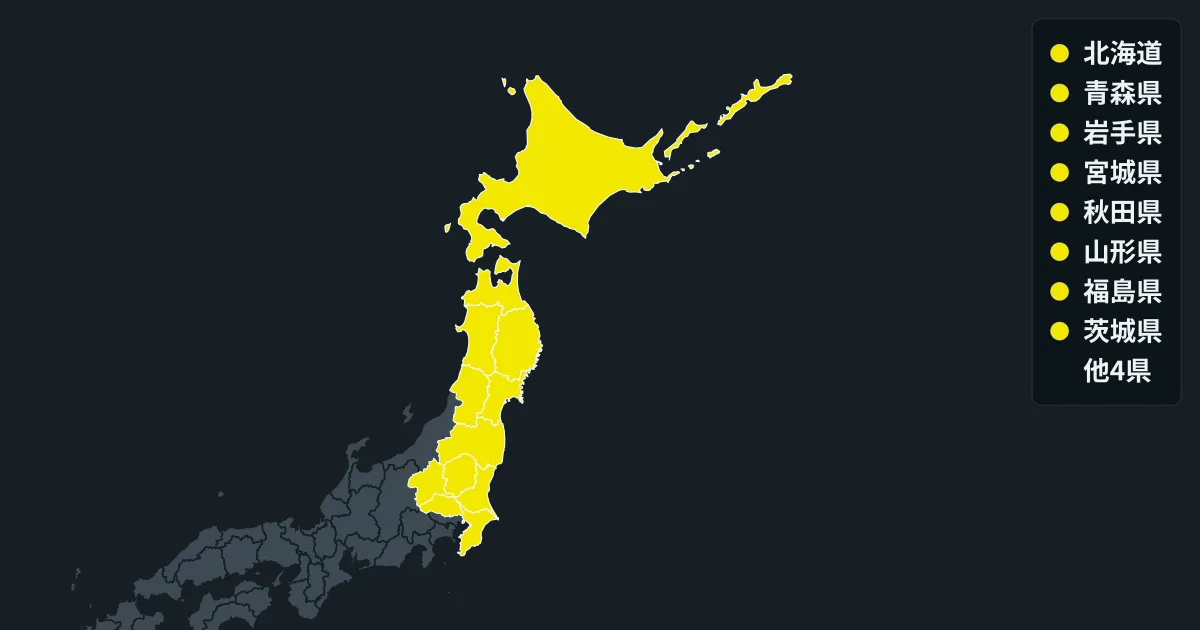
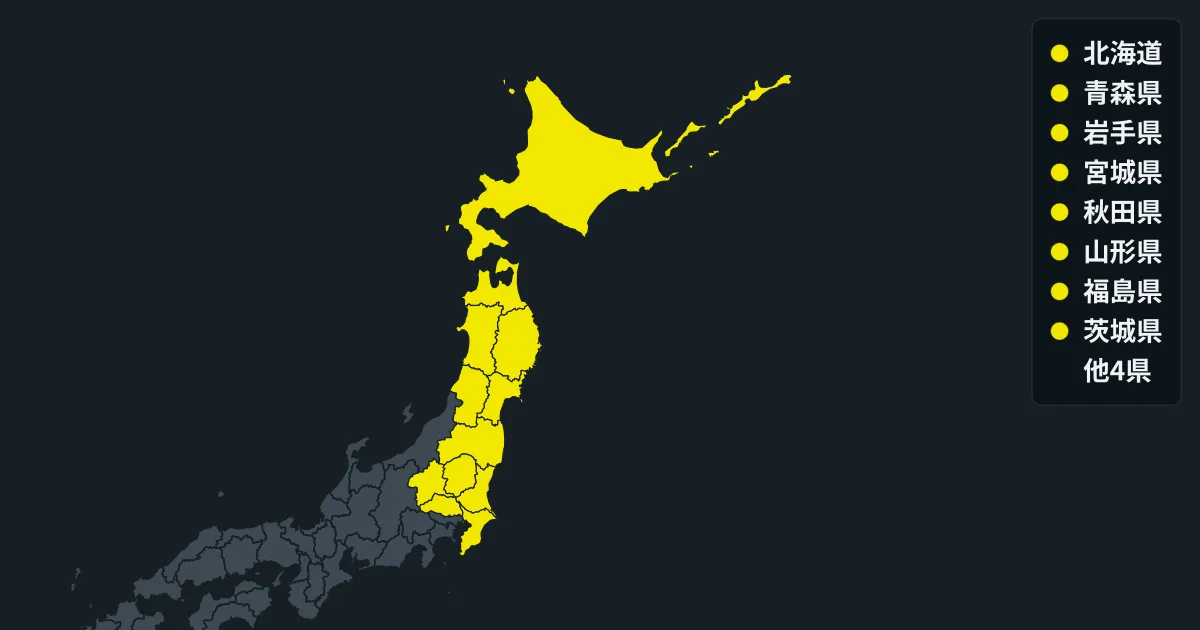
強調県のアウトラインを塗りとのコントラストで自動決定する
白縁固定だと 🟡(黄)・⚪(白)の縁が塗りと同化して県境が読めなかった。
WCAG の相対輝度で明るい塗り(黄・橙・白)は暗縁、暗い塗り(赤・紫・黒)は
明縁にする。明縁と暗縁の県が隣接する共有辺は、両方の塗りに対して
コントラストが出る暗縁が勝つよう、明縁→暗縁の順で描く。
凡例の色丸の輪郭も同じ規則に揃えた。

diff --git a/src/routes/images/alert.webp/+server.ts b/src/routes/images/alert.webp/+server.ts
@@ -33,7 +33,25 @@ const PALETTE: Record<string, string> = {
 const BG_COLOR = "#161f24";
 const LAND_FILL = "#3d4a53";
 const LAND_STROKE = "#171f24";
-const HIGHLIGHT_STROKE = "#f2f6f8";
+
+// 強調県のアウトラインは塗りとのコントラストで決める。
+// 白縁固定だと 🟡(黄)や ⚪(白)の縁が塗りと同化するため
+const EDGE_LIGHT = "#f2f6f8";
+const EDGE_DARK = "#161f24";
+const EDGE_LUMINANCE_THRESHOLD = 0.4;
+
+// WCAG の相対輝度。明るい塗りかどうかの判定に使う
+function luminance(hex: string): number {
+  const linear = (i: number) => {
+    const c = parseInt(hex.slice(i, i + 2), 16) / 255;
+    return c <= 0.03928 ? c / 12.92 : ((c + 0.055) / 1.055) ** 2.4;
+  };
+  return 0.2126 * linear(1) + 0.7152 * linear(3) + 0.0722 * linear(5);
+}
+
+function edgeFor(fill: string): string {
+  return luminance(fill) > EDGE_LUMINANCE_THRESHOLD ? EDGE_DARK : EDGE_LIGHT;
+}
 
 const DEFAULT_WIDTH = 1200; // OGP 推奨サイズ
 const DEFAULT_HEIGHT = 630;
@@ -144,25 +162,29 @@ function buildMap(
   const colorOf = new Map(prefs.map((p) => [p.code, PALETTE[p.color]]));
   const baseFill: string[] = [];
   const baseBoundary: string[] = [];
-  const active: string[] = [];
+  const activeLight: string[] = [];
+  const activeDark: string[] = [];
   for (const [code, d] of Object.entries(paths)) {
     const fill = colorOf.get(Number(code));
     if (fill) {
-      active.push(
-        `<path d="${d}" fill="${fill}" stroke="${HIGHLIGHT_STROKE}" stroke-width="${highlightStroke}"/>`,
-      );
+      const edge = edgeFor(fill);
+      const path = `<path d="${d}" fill="${fill}" stroke="${edge}" stroke-width="${highlightStroke}"/>`;
+      // 明るい塗り(暗縁)を後に描く。明縁と暗縁の県が隣接したとき、
+      // 共有辺には両方の塗りに対してコントラストのある暗縁を残すため
+      (edge === EDGE_DARK ? activeDark : activeLight).push(path);
     } else {
       baseFill.push(`<path d="${d}" fill="${LAND_FILL}"/>`);
       baseBoundary.push(`<path d="${d}" fill="none" stroke="${LAND_STROKE}" stroke-width="${boundaryStroke}"/>`);
     }
   }
 
-  // 描画順: 塗り → 県境 → 強調県(強調県の明色アウトラインを最前面に保つ)
+  // 描画順: 塗り → 県境 → 強調県(明縁 → 暗縁)
   return (
     `<g transform="translate(${tx} ${ty}) scale(${scale})" fill-rule="evenodd" stroke-linejoin="round">` +
     baseFill.join("") +
     baseBoundary.join("") +
-    active.join("") +
+    activeLight.join("") +
+    activeDark.join("") +
     `</g>`
   );
 }
@@ -225,9 +247,9 @@ function buildLegend(width: number, height: number, prefs: PrefSpec[]): string {
     const cy = panelY + padY + rowH * (i + 0.5);
     const dotX = panelX + padX + dotR;
     if (row.color) {
-      // 黒(レベル5)や白でも見えるように薄い輪郭を添える
+      // 黒(レベル5)のような暗い丸でも見えるよう、地図と同じ規則で輪郭を添える
       items.push(
-        `<circle cx="${dotX.toFixed(1)}" cy="${cy.toFixed(1)}" r="${dotR.toFixed(1)}" fill="${row.color}" stroke="#ffffff" stroke-opacity="0.4" stroke-width="1"/>`,
+        `<circle cx="${dotX.toFixed(1)}" cy="${cy.toFixed(1)}" r="${dotR.toFixed(1)}" fill="${row.color}" stroke="${edgeFor(row.color)}" stroke-opacity="0.5" stroke-width="1"/>`,
       );
     }
     const textX = panelX + padX + dotR * 2 + dotGap;
